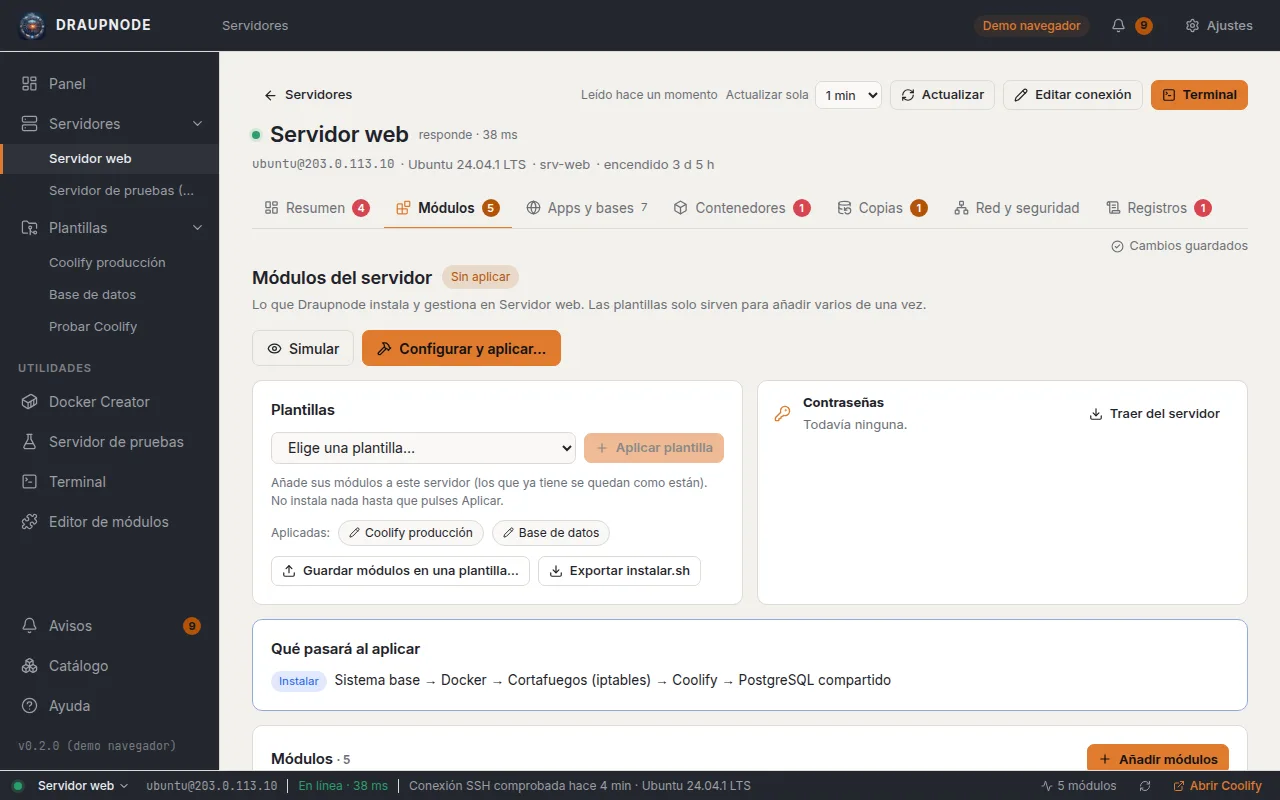
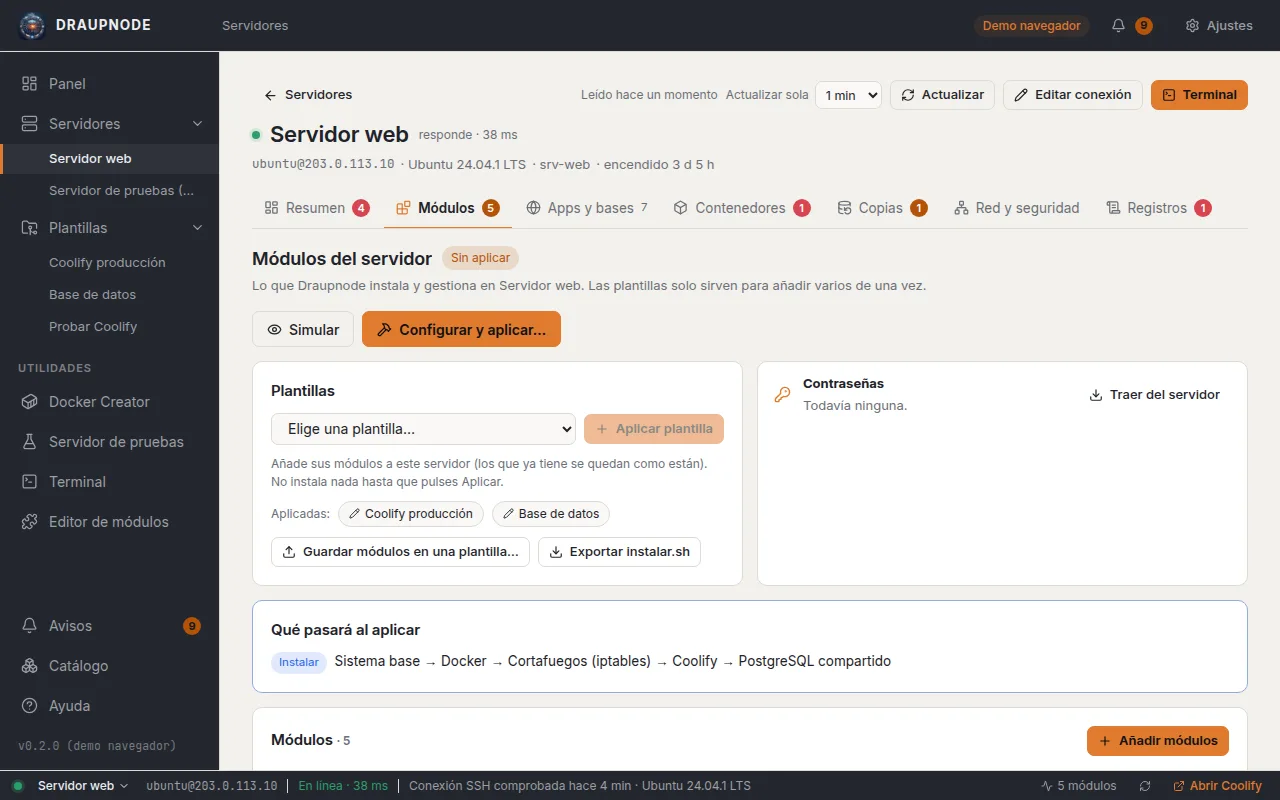
Cambios guardados solo tras guardar algo (0.50.3)

diff --git a/frontend/src/lib/help.ts b/frontend/src/lib/help.ts
@@ -76,7 +76,7 @@ export const HELP: HelpSection[] = [
       { title: 'Configurar y aplicar', text: 'Con módulos marcados aparece «Configurar y aplicar…»: se abre una ventana por cada módulo nuevo que tenga opciones (Anterior / Siguiente) y al final un resumen con «Simular» y «Finalizar y aplicar». Arriba de la ventana ves siempre el servidor y la plantilla.' },
       { title: 'Página de un módulo', text: 'Pulsando un módulo instalado ves su estado, lo suyo (por ejemplo, los botones de copias, el panel de Coolify o sus contraseñas) y su configuración. Si cambias algo sale «Cambios sin aplicar» y el botón «Aplicar cambios». La ruta de arriba (Servidor › Plantilla › Módulo) te dice siempre dónde estás y te lleva atrás.' },
       { title: 'Simular', text: 'Una simulación: no cambia nada en el servidor. Al terminar te dice una de dos cosas: «Simulación completada. Todavía no se ha aplicado nada», con la lista de lo que hará Aplicar; o «Configuración ya aplicada en el servidor: no es necesario pulsar Aplicar». Si sale en rojo, dice qué falló. Cada tarea lleva su estado: «ya está bien», «se cambiará», «no hace falta en este servidor» o «fallo». «Para que lo sepas» son avisos, no errores.' },
-      { title: 'Aplicar', text: 'Instala de verdad. Verás cada tarea en directo; al terminar, las notas importantes (por ejemplo, la dirección del panel de Coolify). El botón solo aparece si la plantilla no se ha aplicado aún en este servidor o si lo has cambiado desde la última vez; si no, verás «Aplicado hace…, sin cambios desde entonces». Las contraseñas que generan los módulos se crean en el servidor la primera vez que aplicas (al previsualizar, no), quedan allí en /etc/draupnode/secretos/<proyecto>/ (solo root) y Draupnode trae una copia a su bóveda cifrada.' },
+      { title: 'Aplicar', text: 'Instala de verdad. Verás cada tarea en directo; al terminar, las notas importantes (por ejemplo, la dirección del panel de Coolify). El botón solo aparece si la plantilla no se ha aplicado aún en este servidor o si lo has cambiado desde la última vez; si no, verás «Aplicado hace…, sin cambios desde entonces». Las contraseñas que generan los módulos se crean en el servidor la primera vez que aplicas (al simular, no), quedan allí en /etc/draupnode/secretos/<proyecto>/ (solo root) y Draupnode trae una copia a su bóveda cifrada.' },
       { title: 'Copias en otro servidor', text: 'En la página del módulo «Copias de seguridad», «Guardar también en otro servidor…» elige otro de tus servidores y lo prepara como destino: crea allí la plantilla «Destino de copias» (rest-server en modo solo añadir, con HTTPS) y deja este servidor apuntando a él. El puerto se elige al azar (lo puedes cambiar). Al terminar puedes pulsar «Aplicar los dos ahora» (destino, este servidor y otra vez el destino para activar la rotación) o hacerlo tú luego. Desde este servidor se pueden añadir copias allí, pero no borrarlas: si alguien entra aquí, las de allí siguen a salvo. El destino borra él solo las viejas (por defecto, 30 días y una al mes durante un año).', img: 'destino-copias' },
       { title: 'Copias en este equipo al abrir la app', text: 'Si las copias que trajiste a este equipo son viejas (por defecto, más de 7 días) o nunca las trajiste, arriba aparece un aviso con «Traer ahora». En la página del módulo Copias puedes cambiar los días o elegir «traerlas solas»: entonces se descargan al abrir Draupnode sin preguntar (si hace falta una contraseña, se queda en aviso).', img: 'copias-aviso' },
       { title: 'Aplicar los dos a la vez', text: 'Tras «Preparar», «Aplicar los dos ahora» va paso a paso y te enseña en qué está cada uno. Si uno falla se para y te lleva a él para verlo.', img: 'destino-copias-aplicar' },

diff --git a/frontend/src/views/ProjectEditor.svelte b/frontend/src/views/ProjectEditor.svelte
@@ -30,6 +30,8 @@
   const contentKey = (p: Project) => JSON.stringify([p.name.trim(), p.serverId, p.modules])
   let savedKey = $state(initial ? contentKey(initial) : '')
   let saveError = $state('')
+  // Solo se dice «Cambios guardados» después de haber guardado algo en esta pantalla.
+  let savedAt = $state(0)
   let check = $state<ProjectCheck | null>(null)
   let saving = $state(false)
   const mods = $derived(ui.modules?.modules ?? [])
@@ -263,6 +265,7 @@
       draft.id = saved.id
       savedKey = contentKey(snap)
       saveError = ''
+      savedAt = Date.now()
       await refreshProjects()
       if (wasNew) {
         draft.modules = saved.modules
@@ -422,7 +425,7 @@
       {#if saving}<LoaderCircle size={13} class="spin" /> Guardando…
       {:else if dirty && errorCount}<span class="warn"><TriangleAlert size={13} /> No se guarda hasta corregir las opciones en rojo</span>
       {:else if saveError}<span class="bad">{saveError}</span>
-      {:else if !dirty}<CircleCheck size={13} /> Cambios guardados{/if}
+      {:else if !dirty && savedAt}<CircleCheck size={13} /> Cambios guardados{/if}
     </span>
   {/if}
 </div>

diff --git a/app.go b/app.go
@@ -21,7 +21,7 @@ import (
 )
 
 // Version de la aplicación.
-const Version = "0.50.2"
+const Version = "0.50.3"
 
 // Prefijos que la interfaz reconoce en los errores para abrir el diálogo
 // de la bóveda (crear o desbloquear) y reintentar.

diff --git a/docs/HISTORIAL.md b/docs/HISTORIAL.md
@@ -784,3 +784,8 @@ módulos de una vez; editarla no cambia los servidores. Desde un servidor se pue
 - Petición del usuario: en botones, asistente, barra de estado, recuadro de la ejecución («Simulación»), historial
   y ayuda. Por dentro (nombre de los ficheros de registro y `check`) sigue siendo «previsualizar», para no romper
   los registros que ya hay; el historial lo enseña como «simular».
+
+## 2026-11-22 · 0.50.3 · «Cambios guardados» solo después de guardar
+
+- En los módulos del servidor salía «Cambios guardados» nada más abrir, sin haber cambiado nada. Ahora solo
+  aparece después de que se guarde algo en esa pantalla. (Y el último «previsualizar» de la ayuda → «simular».)
